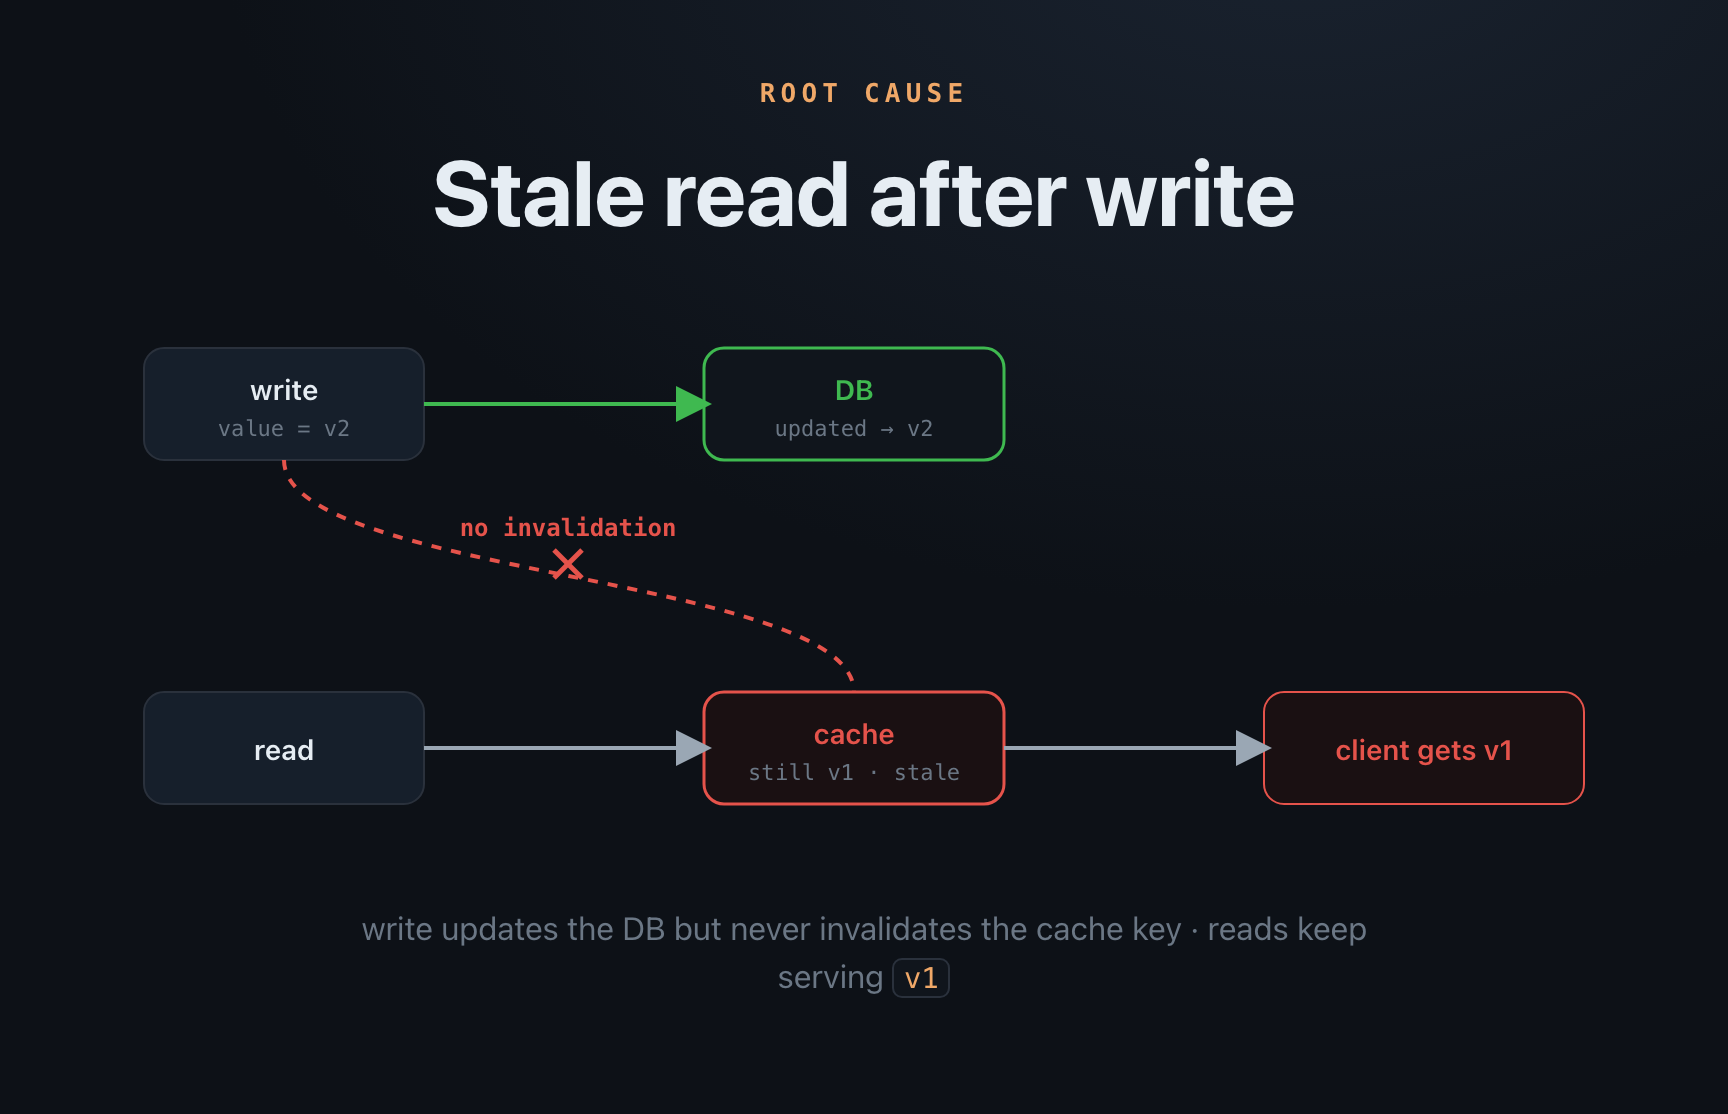
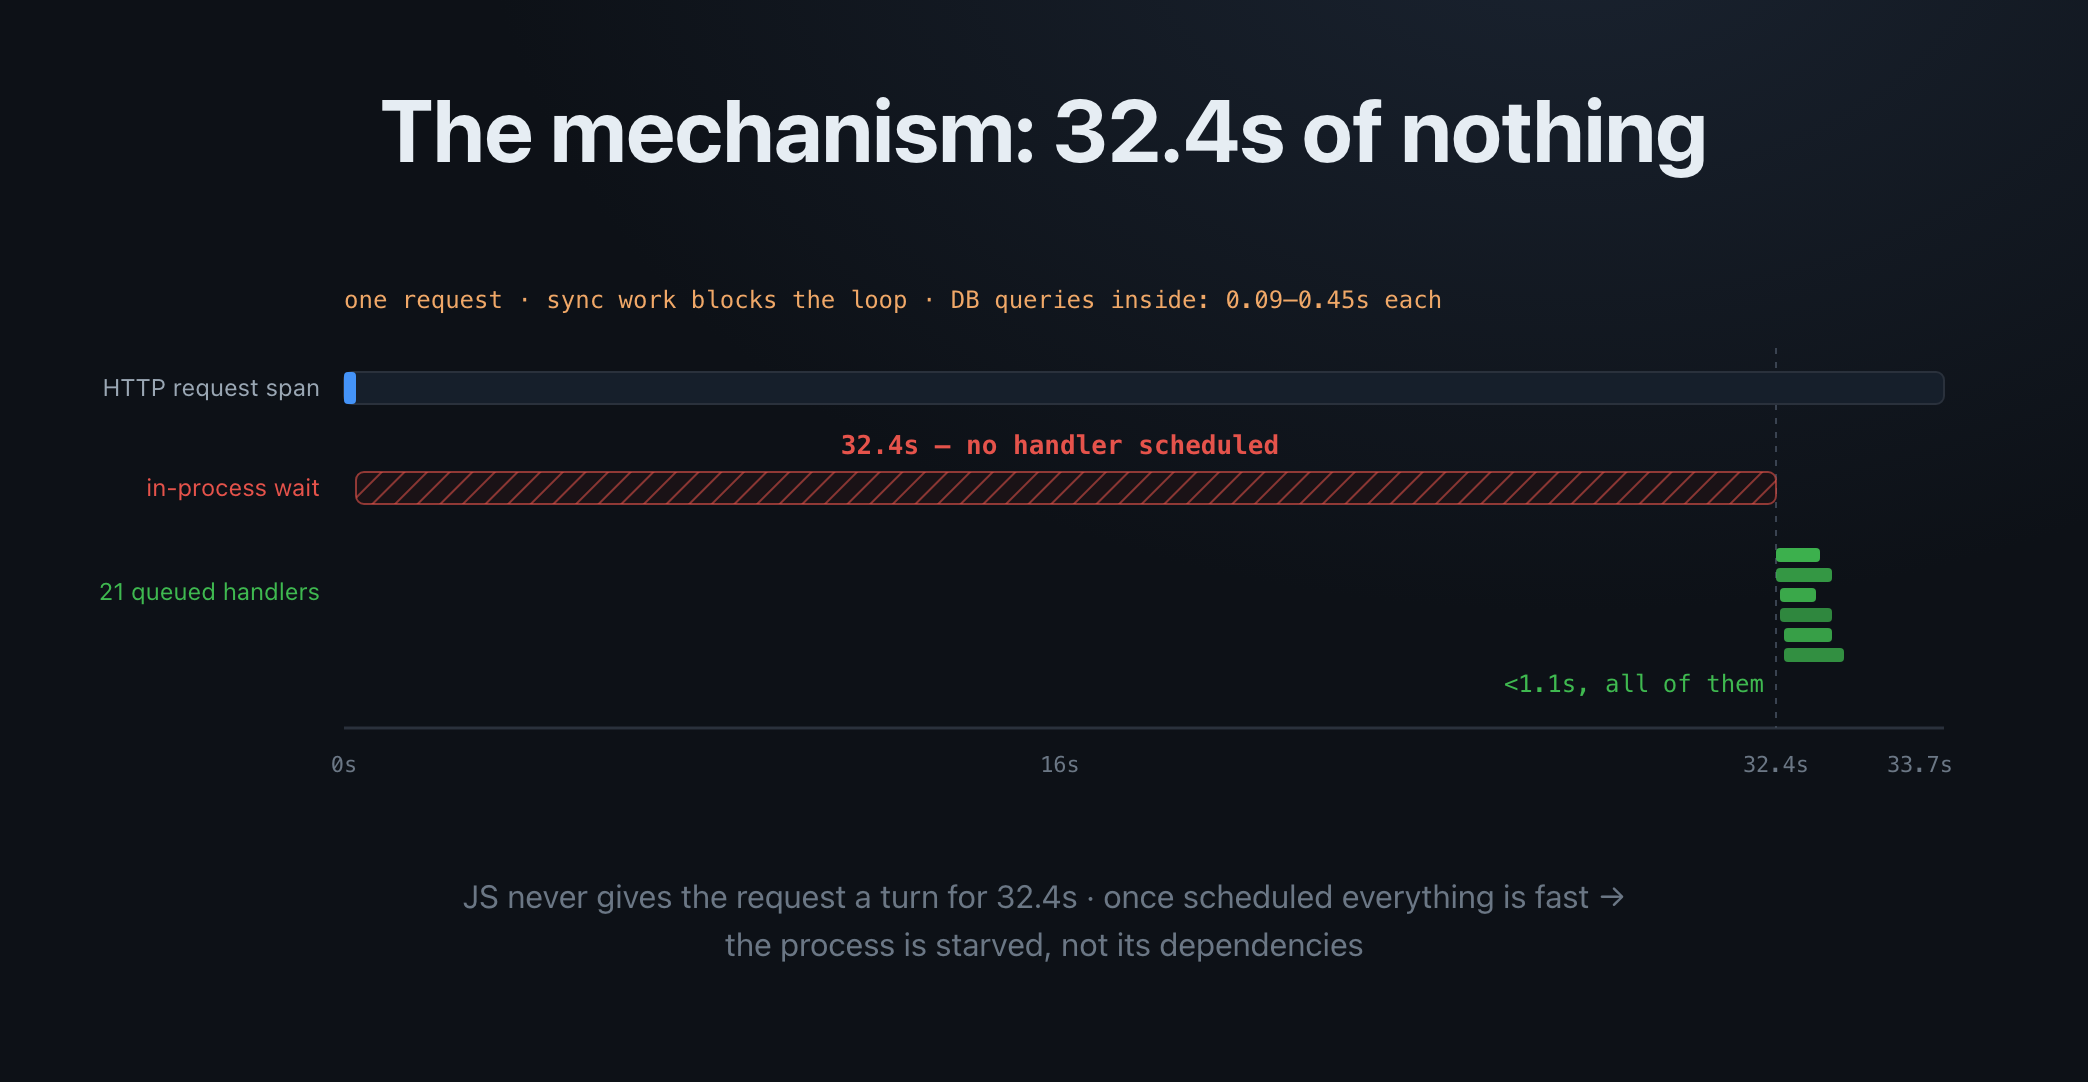
feature the bug-diagnosis deck as a live slide-story demo

diff --git a/examples/event-loop.html b/examples/event-loop.html
@@ -1,0 +1,307 @@
+<!DOCTYPE html>
+<html lang="en">
+<head>
+<meta charset="UTF-8">
+<meta name="viewport" content="width=device-width, initial-scale=1.0">
+<title>How one synchronous loop froze an API for 32 seconds · justshowme</title>
+<meta name="description" content="A live slide story diagnosing a 32-second API freeze: event-loop starvation from an O(N²) scan, fixed with parse-once and a banded Levenshtein. Self-contained HTML generated by the justshowme skill.">
+<style>
+  :root{
+    --bg:#0d1117;--panel:#141b24;--line:#2a313c;--ink:#e6edf3;--mut:#9aa7b4;--dim:#6b7785;
+    --acc:#e06b3b;--acc2:#f0a868;--good:#3fb950;--bad:#e5534b;--blue:#4493f8;
+    --mono:'SF Mono',ui-monospace,Menlo,monospace;
+  }
+  *{box-sizing:border-box}
+  html,body{margin:0;height:100%}
+  body{background:var(--bg);color:var(--ink);font:16px/1.5 -apple-system,BlinkMacSystemFont,'Segoe UI',Inter,sans-serif;-webkit-font-smoothing:antialiased}
+  .deck{height:100vh;overflow-y:scroll;scroll-snap-type:y mandatory;scroll-behavior:smooth}
+  .slide{min-height:100vh;scroll-snap-align:start;display:flex;flex-direction:column;justify-content:center;align-items:center;
+    padding:6vh 7vw;position:relative;text-align:center;
+    background:radial-gradient(900px 600px at 75% -10%,#1a2330 0%,var(--bg) 60%);
+    opacity:0;transform:translateY(20px);transition:opacity .55s ease,transform .55s ease}
+  .slide.visible{opacity:1;transform:none}
+  .slide:nth-child(even){background:radial-gradient(900px 600px at 20% 110%,#191f2b 0%,var(--bg) 60%)}
+  .label{font:600 13px/1 var(--mono);letter-spacing:.2em;text-transform:uppercase;color:var(--acc2);margin-bottom:18px}
+  .title{font-size:clamp(26px,3.4vw,44px);line-height:1.1;margin:0 0 26px;letter-spacing:-.01em;font-weight:700;max-width:26ch}
+  .title .hl{background:linear-gradient(110deg,var(--acc),var(--acc2));-webkit-background-clip:text;background-clip:text;color:transparent}
+  .cap{margin-top:22px;color:var(--dim);font-size:clamp(13px,1.3vw,16px);max-width:60ch}
+  .cap code{font-family:var(--mono);font-size:.9em;color:var(--acc2);background:#10151c;border:1px solid var(--line);padding:1px 5px;border-radius:5px}
+  .figure{width:100%;max-width:980px;display:flex;justify-content:center}
+  svg{max-width:100%;height:auto;overflow:visible}
+  .t{fill:var(--ink);font-family:-apple-system,Inter,sans-serif}.tm{fill:var(--mut)}.td{fill:var(--dim)}.ta{fill:var(--acc2)}.tg{fill:var(--good)}.tb{fill:var(--bad)}.tbl{fill:var(--blue)}
+  .mono{font-family:var(--mono)}
+  .hero .title{font-size:clamp(32px,5vw,66px);max-width:20ch}
+  .deck-progress{position:fixed;top:0;left:0;height:3px;width:0;background:linear-gradient(90deg,var(--acc),var(--acc2));z-index:50;transition:width .4s ease}
+  .deck-dots{position:fixed;right:24px;top:50%;transform:translateY(-50%);display:flex;flex-direction:column;gap:11px;z-index:50}
+  .deck-dot{width:9px;height:9px;border-radius:50%;border:none;padding:0;cursor:pointer;background:#3a4351;transition:transform .2s,background .2s}
+  .deck-dot.active{background:var(--acc);transform:scale(1.45)}
+  .deck-counter{position:fixed;left:24px;bottom:20px;font:600 13px/1 var(--mono);color:var(--dim);z-index:50}
+  .deck-hints{position:fixed;right:24px;bottom:20px;font:13px/1 var(--mono);color:var(--dim);z-index:50;transition:opacity .6s}
+  .deck-hints.faded{opacity:0}
+  @media(max-width:760px){.deck-dots{display:none}}
+  @media(prefers-reduced-motion:reduce){.slide{transition:none;opacity:1;transform:none}.deck{scroll-behavior:auto}}
+</style>
+</head>
+<body>
+<div class="deck">
+
+  <!-- 1 · HERO WATERFALL -->
+  <section class="slide">
+    <h2 class="title">The mechanism: 32.4s of nothing</h2>
+    <div class="figure">
+      <svg viewBox="0 0 940 300" width="940">
+        <defs>
+          <pattern id="hatch" width="8" height="8" patternTransform="rotate(45)" patternUnits="userSpaceOnUse">
+            <rect width="8" height="8" fill="#1a1216"/><line x1="0" y1="0" x2="0" y2="8" stroke="#e5534b" stroke-width="2" opacity=".55"/>
+          </pattern>
+        </defs>
+        <line x1="120" y1="250" x2="920" y2="250" stroke="var(--line)" stroke-width="1.5"/>
+        <g>
+          <text x="120" y="272" text-anchor="middle" class="td mono" font-size="11">0s</text>
+          <text x="478" y="272" text-anchor="middle" class="td mono" font-size="11">16s</text>
+          <text x="836" y="272" text-anchor="middle" class="td mono" font-size="11">32.4s</text>
+          <text x="908" y="272" text-anchor="middle" class="td mono" font-size="11">33.7s</text>
+        </g>
+        <line x1="836" y1="60" x2="836" y2="250" stroke="#3a4351" stroke-dasharray="3 4"/>
+        <text x="108" y="84" text-anchor="end" class="tm" font-size="12">HTTP request span</text>
+        <rect x="120" y="72" width="800" height="16" rx="4" fill="#161f2b" stroke="var(--line)"/>
+        <rect x="120" y="72" width="6" height="16" rx="2" fill="var(--blue)"/>
+        <text x="108" y="134" text-anchor="end" class="tb" font-size="12">in-process wait</text>
+        <rect x="126" y="122" width="710" height="16" rx="4" fill="url(#hatch)" stroke="#e5534b" stroke-opacity=".6"/>
+        <text x="478" y="113" text-anchor="middle" class="tb mono" font-size="13" font-weight="700">32.4s — no handler scheduled</text>
+        <text x="108" y="186" text-anchor="end" class="tg" font-size="12">21 queued handlers</text>
+        <g>
+          <rect x="836" y="160" width="22" height="7" rx="2" fill="var(--good)" opacity=".95"/>
+          <rect x="836" y="170" width="28" height="7" rx="2" fill="var(--good)" opacity=".8"/>
+          <rect x="838" y="180" width="18" height="7" rx="2" fill="var(--good)" opacity=".9"/>
+          <rect x="838" y="190" width="26" height="7" rx="2" fill="var(--good)" opacity=".7"/>
+          <rect x="840" y="200" width="24" height="7" rx="2" fill="var(--good)" opacity=".85"/>
+          <rect x="840" y="210" width="30" height="7" rx="2" fill="var(--good)" opacity=".75"/>
+          <text x="830" y="232" class="tg mono" font-size="12" text-anchor="end">&lt;1.1s, all of them</text>
+        </g>
+        <text x="120" y="40" class="ta mono" font-size="12" text-anchor="start">one request · sync work blocks the loop · DB queries inside: 0.09–0.45s each</text>
+      </svg>
+    </div>
+    <p class="cap">JS never gives the request a turn for 32.4s · once scheduled everything is fast → the process is starved, not its dependencies</p>
+  </section>
+
+  <!-- 2 · PARSE ONCE -->
+  <section class="slide">
+    <h2 class="title">The cause: O(N²) re-parsing</h2>
+    <div class="figure">
+      <svg viewBox="0 0 940 360" width="940">
+        <defs>
+          <marker id="arrB" markerWidth="8" markerHeight="8" refX="6" refY="4" orient="auto"><path d="M0,0 L8,4 L0,8 Z" fill="var(--bad)"/></marker>
+          <marker id="arrG" markerWidth="8" markerHeight="8" refX="6" refY="4" orient="auto"><path d="M0,0 L8,4 L0,8 Z" fill="var(--good)"/></marker>
+        </defs>
+
+        <!-- BEFORE -->
+        <text x="240" y="24" text-anchor="middle" class="tb mono" font-size="13" font-weight="700">BEFORE</text>
+        <g transform="translate(120,44)">
+          <rect x="0" y="0" width="80" height="34" rx="6" fill="#161f2b" stroke="var(--blue)"/>
+          <text x="40" y="22" text-anchor="middle" class="t mono" font-size="12">record 1</text>
+          <rect x="0" y="56" width="80" height="34" rx="6" fill="#161f2b" stroke="var(--blue)"/>
+          <text x="40" y="78" text-anchor="middle" class="t mono" font-size="12">record 2</text>
+          <rect x="0" y="112" width="80" height="34" rx="6" fill="#161f2b" stroke="var(--blue)"/>
+          <text x="40" y="134" text-anchor="middle" class="t mono" font-size="12">record 3</text>
+          <text x="40" y="178" text-anchor="middle" class="td mono" font-size="13">⋮</text>
+          <rect x="0" y="196" width="80" height="34" rx="6" fill="#1a1216" stroke="var(--bad)" stroke-width="1.5"/>
+          <text x="40" y="218" text-anchor="middle" class="tb mono" font-size="12">record i</text>
+          <path d="M86,206 C 190,170 190,60 86,22" fill="none" stroke="var(--bad)" stroke-width="1.4" marker-end="url(#arrB)"/>
+          <path d="M86,212 C 170,180 170,100 86,76" fill="none" stroke="var(--bad)" stroke-width="1.4" marker-end="url(#arrB)"/>
+          <path d="M86,218 C 150,200 150,148 86,132" fill="none" stroke="var(--bad)" stroke-width="1.4" marker-end="url(#arrB)"/>
+          <text x="186" y="118" text-anchor="start" class="tb mono" font-size="11">parse 30–40KB text</text>
+          <text x="186" y="134" text-anchor="start" class="tb mono" font-size="11">× every earlier record</text>
+          <text x="120" y="282" text-anchor="middle" class="tb mono" font-size="12" font-weight="600">N²/2 parses</text>
+          <text x="120" y="300" text-anchor="middle" class="td mono" font-size="11">recomputed per index</text>
+        </g>
+
+        <line x1="470" y1="40" x2="470" y2="330" stroke="var(--line)" stroke-dasharray="3 5"/>
+
+        <!-- AFTER -->
+        <text x="710" y="24" text-anchor="middle" class="tg mono" font-size="13" font-weight="700">AFTER</text>
+        <g transform="translate(540,44)">
+          <rect x="0" y="0" width="80" height="34" rx="6" fill="#161f2b" stroke="var(--blue)"/>
+          <text x="40" y="22" text-anchor="middle" class="t mono" font-size="12">record 1</text>
+          <rect x="0" y="56" width="80" height="34" rx="6" fill="#161f2b" stroke="var(--blue)"/>
+          <text x="40" y="78" text-anchor="middle" class="t mono" font-size="12">record 2</text>
+          <rect x="0" y="112" width="80" height="34" rx="6" fill="#161f2b" stroke="var(--blue)"/>
+          <text x="40" y="134" text-anchor="middle" class="t mono" font-size="12">record 3</text>
+          <text x="40" y="178" text-anchor="middle" class="td mono" font-size="13">⋮</text>
+          <rect x="0" y="196" width="80" height="34" rx="6" fill="#161f2b" stroke="var(--blue)"/>
+          <text x="40" y="218" text-anchor="middle" class="t mono" font-size="12">record N</text>
+          <path d="M86,17 L160,90" fill="none" stroke="var(--good)" stroke-width="1.4" marker-end="url(#arrG)"/>
+          <path d="M86,73 L160,108" fill="none" stroke="var(--good)" stroke-width="1.4" marker-end="url(#arrG)"/>
+          <path d="M86,129 L160,127" fill="none" stroke="var(--good)" stroke-width="1.4" marker-end="url(#arrG)"/>
+          <path d="M86,213 L160,150" fill="none" stroke="var(--good)" stroke-width="1.4" marker-end="url(#arrG)"/>
+          <text x="123" y="62" text-anchor="middle" class="tg mono" font-size="11">1 parse each</text>
+          <g transform="translate(166,84)">
+            <rect width="232" height="76" rx="10" fill="#10151c" stroke="var(--good)" stroke-width="1.5"/>
+            <text x="116" y="30" text-anchor="middle" class="tg mono" font-size="12" font-weight="600">earlierTexts</text>
+            <text x="116" y="52" text-anchor="middle" class="td mono" font-size="11">parsed + normalized once</text>
+          </g>
+          <text x="120" y="282" text-anchor="middle" class="tg mono" font-size="12" font-weight="600">N parses</text>
+          <text x="120" y="300" text-anchor="middle" class="td mono" font-size="11">single forward pass</text>
+        </g>
+      </svg>
+    </div>
+    <p class="cap">each record's text parsed once · comparison texts normalized once, not per pair</p>
+  </section>
+
+  <!-- 3 · BANDED LEVENSHTEIN -->
+  <section class="slide">
+    <h2 class="title">The fix: banded Levenshtein</h2>
+    <div class="figure">
+      <svg viewBox="0 0 940 380" width="940">
+        <defs>
+          <clipPath id="gridR"><rect x="0" y="0" width="220" height="220" rx="6"/></clipPath>
+        </defs>
+
+        <!-- LEFT: full DP -->
+        <g transform="translate(110,110)">
+          <rect x="0" y="0" width="220" height="220" rx="6" fill="var(--bad)" opacity=".45"/>
+          <g stroke="#0d1117" stroke-width="1" opacity=".5">
+            <line x1="0" y1="44" x2="220" y2="44"/><line x1="0" y1="88" x2="220" y2="88"/><line x1="0" y1="132" x2="220" y2="132"/><line x1="0" y1="176" x2="220" y2="176"/>
+            <line x1="44" y1="0" x2="44" y2="220"/><line x1="88" y1="0" x2="88" y2="220"/><line x1="132" y1="0" x2="132" y2="220"/><line x1="176" y1="0" x2="176" y2="220"/>
+          </g>
+          <rect x="0" y="0" width="220" height="220" rx="6" fill="none" stroke="var(--line)"/>
+          <text x="110" y="-14" text-anchor="middle" class="td mono" font-size="11">5,000 × 5,000 words</text>
+          <text x="110" y="246" text-anchor="middle" class="tb mono" font-size="12" font-weight="600">25M cells per pair</text>
+        </g>
+
+        <line x1="470" y1="60" x2="470" y2="350" stroke="var(--line)" stroke-dasharray="3 5"/>
+
+        <!-- gate above right matrix -->
+        <g transform="translate(564,28)">
+          <rect width="312" height="40" rx="8" fill="#10151c" stroke="var(--acc2)"/>
+          <text x="156" y="18" text-anchor="middle" class="ta mono" font-size="11">|len(a) − len(b)| &gt; k → skip pair entirely</text>
+          <text x="156" y="33" text-anchor="middle" class="td mono" font-size="10">(distance ≥ length gap)</text>
+        </g>
+
+        <!-- RIGHT: banded DP -->
+        <g transform="translate(610,110)">
+          <rect x="0" y="0" width="220" height="220" rx="6" fill="#10151c" stroke="var(--line)"/>
+          <g clip-path="url(#gridR)">
+            <polygon points="0,0 24,0 220,196 220,220 196,220 0,24" fill="var(--good)" opacity=".55"/>
+          </g>
+          <g stroke="#0d1117" stroke-width="1" opacity=".5">
+            <line x1="0" y1="44" x2="220" y2="44"/><line x1="0" y1="88" x2="220" y2="88"/><line x1="0" y1="132" x2="220" y2="132"/><line x1="0" y1="176" x2="220" y2="176"/>
+            <line x1="44" y1="0" x2="44" y2="220"/><line x1="88" y1="0" x2="88" y2="220"/><line x1="132" y1="0" x2="132" y2="220"/><line x1="176" y1="0" x2="176" y2="220"/>
+          </g>
+          <rect x="0" y="0" width="220" height="220" rx="6" fill="none" stroke="var(--line)"/>
+          <text x="160" y="62" text-anchor="middle" class="td mono" font-size="12">INF</text>
+          <text x="62" y="166" text-anchor="middle" class="td mono" font-size="12">INF</text>
+          <text x="110" y="246" text-anchor="middle" class="tg mono" font-size="12" font-weight="600">band k = 1% of maxLen ≈ 50 → ~250k cells</text>
+        </g>
+      </svg>
+    </div>
+    <p class="cap">0.99 threshold ⇒ distance ≤ 1%·maxLen — band is EXACT for the ≤k decision, verified by fuzz vs full DP</p>
+  </section>
+
+  <!-- 5 · RESULT -->
+  <section class="slide">
+    <h2 class="title">Result: 56s → 54ms</h2>
+    <div class="figure">
+      <svg viewBox="0 0 940 360" width="940">
+        <g class="tm mono" font-size="12" text-anchor="end">
+          <text x="225" y="58">11 records · verbatim</text>
+          <text x="225" y="118">11 · 300w rewritten</text>
+          <text x="225" y="178">11 · 500w rewritten</text>
+          <text x="225" y="238">25 · rewritten</text>
+          <text x="225" y="298">37 · rewritten</text>
+        </g>
+
+        <!-- before bars (sqrt scale, 660px = sqrt(56000)) -->
+        <g fill="var(--acc)" opacity=".85">
+          <rect x="240" y="42" width="68" height="20" rx="3"/>
+          <rect x="240" y="102" width="128" height="20" rx="3"/>
+          <rect x="240" y="162" width="218" height="20" rx="3"/>
+          <rect x="240" y="222" width="352" height="20" rx="3"/>
+          <rect x="240" y="282" width="660" height="20" rx="3" fill="var(--bad)"/>
+        </g>
+        <g class="t mono" font-size="12" font-weight="600" text-anchor="start">
+          <text x="316" y="57">587ms</text>
+          <text x="376" y="117">2.1s</text>
+          <text x="466" y="177">6.1s</text>
+          <text x="600" y="237">15.9s</text>
+          <text x="846" y="297" text-anchor="end" fill="#fff">56.0s</text>
+        </g>
+
+        <!-- after bars -->
+        <g fill="var(--good)">
+          <rect x="240" y="66" width="7" height="12" rx="2"/>
+          <rect x="240" y="126" width="9" height="12" rx="2"/>
+          <rect x="240" y="186" width="11" height="12" rx="2"/>
+          <rect x="240" y="246" width="14" height="12" rx="2"/>
+          <rect x="240" y="306" width="21" height="12" rx="2"/>
+        </g>
+        <g class="tg mono" font-size="12" font-weight="600" text-anchor="start">
+          <text x="255" y="77">6ms</text>
+          <text x="257" y="137">9ms</text>
+          <text x="259" y="197">15ms</text>
+          <text x="262" y="257">25ms</text>
+          <text x="269" y="317">54ms  ·  ~1000×</text>
+        </g>
+
+        <line x1="240" y1="330" x2="920" y2="330" stroke="var(--line)" stroke-width="1.5"/>
+        <text x="240" y="352" text-anchor="start" class="td mono" font-size="10">0</text>
+        <text x="920" y="352" text-anchor="end" class="td mono" font-size="10">sqrt scale → small bars stay visible</text>
+        <g transform="translate(740,40)">
+          <rect width="14" height="12" rx="2" fill="var(--acc)" opacity=".85"/>
+          <text x="22" y="11" class="tm mono" font-size="11" text-anchor="start">before</text>
+          <rect x="86" width="14" height="12" rx="2" fill="var(--good)"/>
+          <text x="108" y="11" class="tm mono" font-size="11" text-anchor="start">after</text>
+        </g>
+      </svg>
+    </div>
+    <p class="cap">real function, synthetic record lists · laptop, prod container ≈ 2× · byte-identical output</p>
+  </section>
+
+</div>
+
+<script>
+(function(){
+  function Deck(){
+    this.deck=document.querySelector('.deck');this.slides=[].slice.call(document.querySelectorAll('.slide'));
+    this.total=this.slides.length;this.current=0;this._chrome();this._bind();this._observe();this._update();
+  }
+  Deck.prototype._chrome=function(){
+    var self=this,b=document.createElement('div');b.className='deck-progress';document.body.appendChild(b);this.bar=b;
+    var d=document.createElement('div');d.className='deck-dots';
+    this.slides.forEach(function(_,i){var x=document.createElement('button');x.className='deck-dot';x.title='Slide '+(i+1);x.onclick=function(){self.go(i);};d.appendChild(x);});
+    document.body.appendChild(d);this.dots=[].slice.call(d.children);
+    var c=document.createElement('div');c.className='deck-counter';document.body.appendChild(c);this.counter=c;
+    var h=document.createElement('div');h.className='deck-hints';h.textContent='← → / scroll';document.body.appendChild(h);this.hints=h;
+    this.ht=setTimeout(function(){h.classList.add('faded');},4000);
+  };
+  Deck.prototype._bind=function(){
+    var self=this;
+    document.addEventListener('keydown',function(e){
+      if(e.target.closest('input,textarea,[contenteditable]'))return;
+      if(['ArrowDown','ArrowRight',' ','PageDown'].indexOf(e.key)>-1){e.preventDefault();self.next();}
+      else if(['ArrowUp','ArrowLeft','PageUp'].indexOf(e.key)>-1){e.preventDefault();self.prev();}
+      else if(e.key==='Home'){e.preventDefault();self.go(0);}
+      else if(e.key==='End'){e.preventDefault();self.go(self.total-1);}
+      self._fade();
+    });
+    var ty;this.deck.addEventListener('touchstart',function(e){ty=e.touches[0].clientY;},{passive:true});
+    this.deck.addEventListener('touchend',function(e){var dy=ty-e.changedTouches[0].clientY;if(Math.abs(dy)>50){dy>0?self.next():self.prev();}});
+  };
+  Deck.prototype._observe=function(){
+    var self=this,o=new IntersectionObserver(function(es){es.forEach(function(en){if(en.isIntersecting){en.target.classList.add('visible');self.current=self.slides.indexOf(en.target);self._update();}else{en.target.classList.remove('visible');}});},{threshold:0.5});
+    this.slides.forEach(function(s){o.observe(s);});
+  };
+  Deck.prototype.go=function(i){this.slides[Math.max(0,Math.min(i,this.total-1))].scrollIntoView({behavior:'smooth'});};
+  Deck.prototype.next=function(){if(this.current<this.total-1)this.go(this.current+1);};
+  Deck.prototype.prev=function(){if(this.current>0)this.go(this.current-1);};
+  Deck.prototype._update=function(){
+    this.bar.style.width=((this.current+1)/this.total*100)+'%';
+    var c=this.current;this.dots.forEach(function(d,i){d.classList.toggle('active',i===c);});
+    this.counter.textContent=(this.current+1)+' / '+this.total;
+  };
+  Deck.prototype._fade=function(){clearTimeout(this.ht);this.hints.classList.add('faded');};
+  new Deck();
+})();
+</script>
+</body>
+</html>

diff --git a/index.html b/index.html
@@ -126,11 +126,12 @@
 
     <section id="prs">
       <h2>2 · Your PR descriptions become a story of slides</h2>
-      <p class="lead">When your agent opens a pull request, it attaches the 1–4 slides that walk a reviewer through the change. Shot headless, uploaded inline with <a href="https://github.com/theolundqvist/gh-img">gh-img</a>.</p>
+      <p class="lead">When your agent opens a pull request, it attaches the 1–4 slides that walk a reviewer through the change. Shot headless, uploaded inline with <a href="https://github.com/theolundqvist/gh-img">gh-img</a>. Here's a real one — a 32-second API freeze, diagnosed and fixed across four slides:</p>
       <div class="gallery" style="margin-top:24px">
-        <figure><img src="docs/screenshots/slide-deck.png" alt="A plan slide: one architecture diagram with a few words"><figcaption>The plan</figcaption></figure>
-        <figure><img src="docs/screenshots/bug-diagnosis.png" alt="A bug root-cause slide showing the missing path in red"><figcaption>The root cause</figcaption></figure>
+        <figure><a href="examples/event-loop.html"><img src="docs/screenshots/bug-diagnosis.png" alt="A slide showing a 32.4-second gap where the event loop scheduled no work"></a><figcaption>The bug, measured</figcaption></figure>
+        <figure><a href="examples/event-loop.html"><img src="docs/screenshots/slide-deck.png" alt="A before/after slide showing 56 seconds dropping to 54 milliseconds"></a><figcaption>The fix, measured</figcaption></figure>
       </div>
+      <p style="margin-top:14px"><a class="btn primary" href="examples/event-loop.html">▶ Open the live slide story</a></p>
     </section>
 
     <section id="install">

diff --git a/README.md b/README.md
@@ -21,14 +21,18 @@ Instead of a 600-line markdown plan, your agent hands you an interactive diagram
 
 When your agent opens a pull request, it attaches the 1–4 slides that walk a reviewer through the change. Shot headless, uploaded inline with [`gh-img`](https://github.com/theolundqvist/gh-img). One diagram per slide, a few words, no paragraphs.
 
+Here's a real one — a 32-second API freeze, diagnosed and fixed across four slides. **▶ [Open the live slide story →](https://theolundqvist.github.io/justshowme/examples/event-loop.html)**
+
+| The bug, measured | The fix, measured |
+|---|---|
+| [![a slide showing a 32.4-second gap where the event loop scheduled no work](docs/screenshots/bug-diagnosis.png)](https://theolundqvist.github.io/justshowme/examples/event-loop.html) | [![a before/after slide showing 56 seconds dropping to 54 milliseconds](docs/screenshots/slide-deck.png)](https://theolundqvist.github.io/justshowme/examples/event-loop.html) |
+
 ## The primitives
 
 The agent builds every visual from six self-contained primitives. Open [`references/primitives.html`](skills/visualize/references/primitives.html) to play with them. Slides are the default; `--page` gives a scrolling page for dense reference. Command: `/visualize`.
 
-| The plan | The root cause |
-|---|---|
-| ![a plan slide: one diagram, a few words](docs/screenshots/slide-deck.png) | ![a bug root-cause slide: the broken path in red](docs/screenshots/bug-diagnosis.png) |
 | **Schematic SVG** | **Animated flow** |
+|---|---|
 | ![boxes and arrows, the real shape of the system](docs/screenshots/schematic.png) | ![dots moving along the request path](docs/screenshots/animated-flow.png) |
 | **Interactive** | **Toggle-gated flow** |
 | ![a slider that redraws the diagram](docs/screenshots/interactive-widget.png) | ![a checkbox that opens and closes a path](docs/screenshots/toggle-gated.png) |